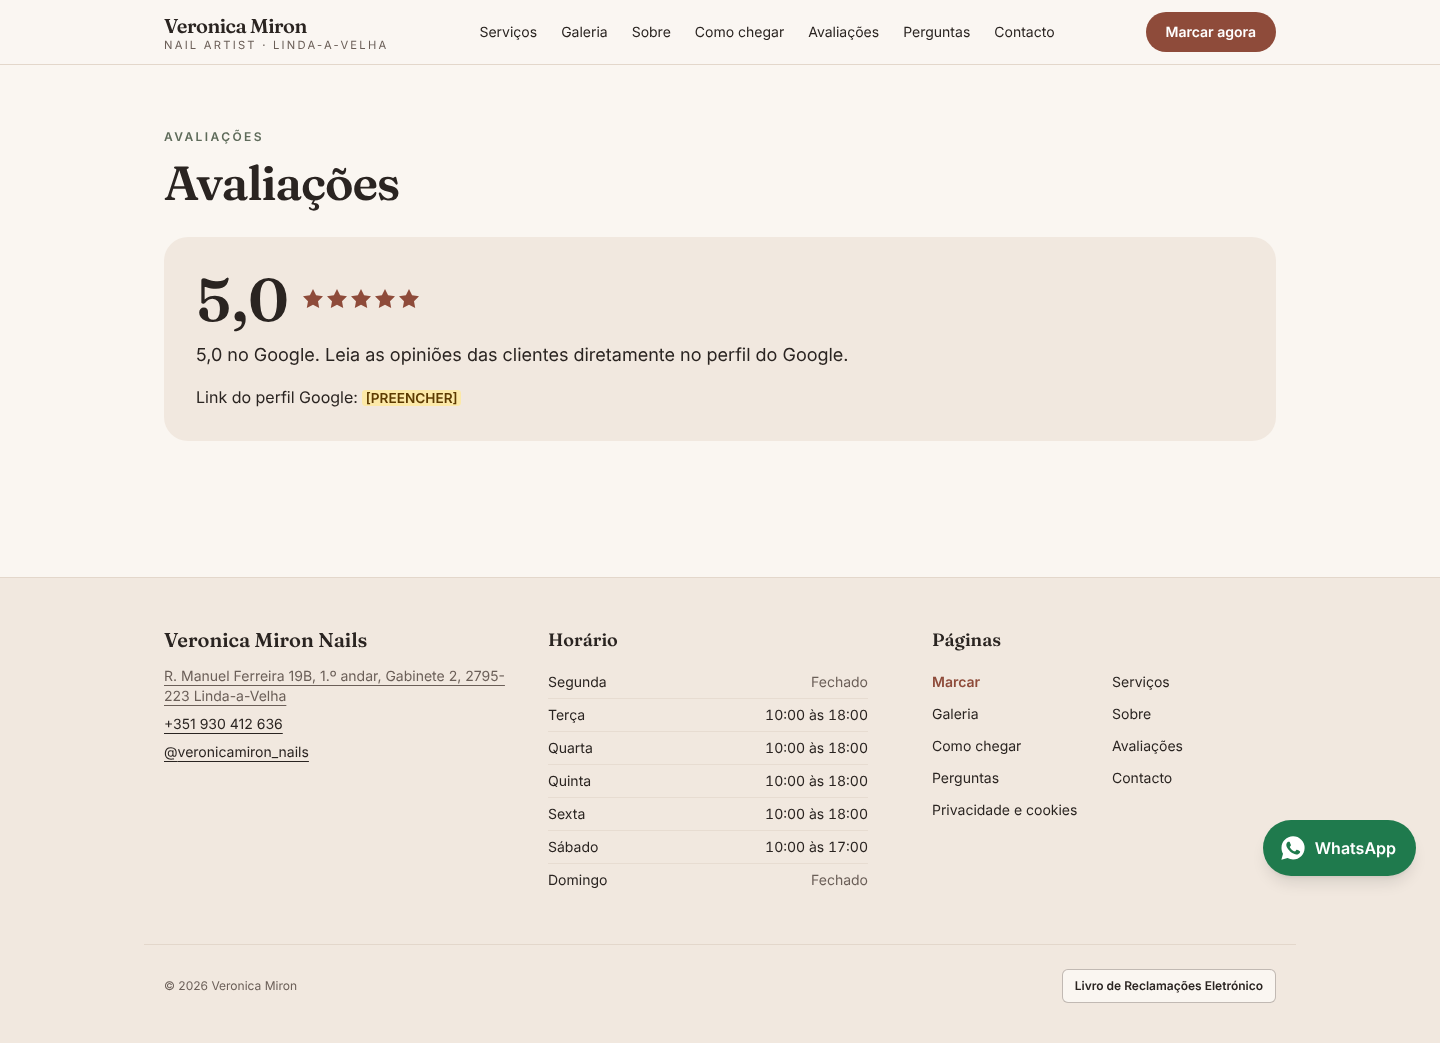
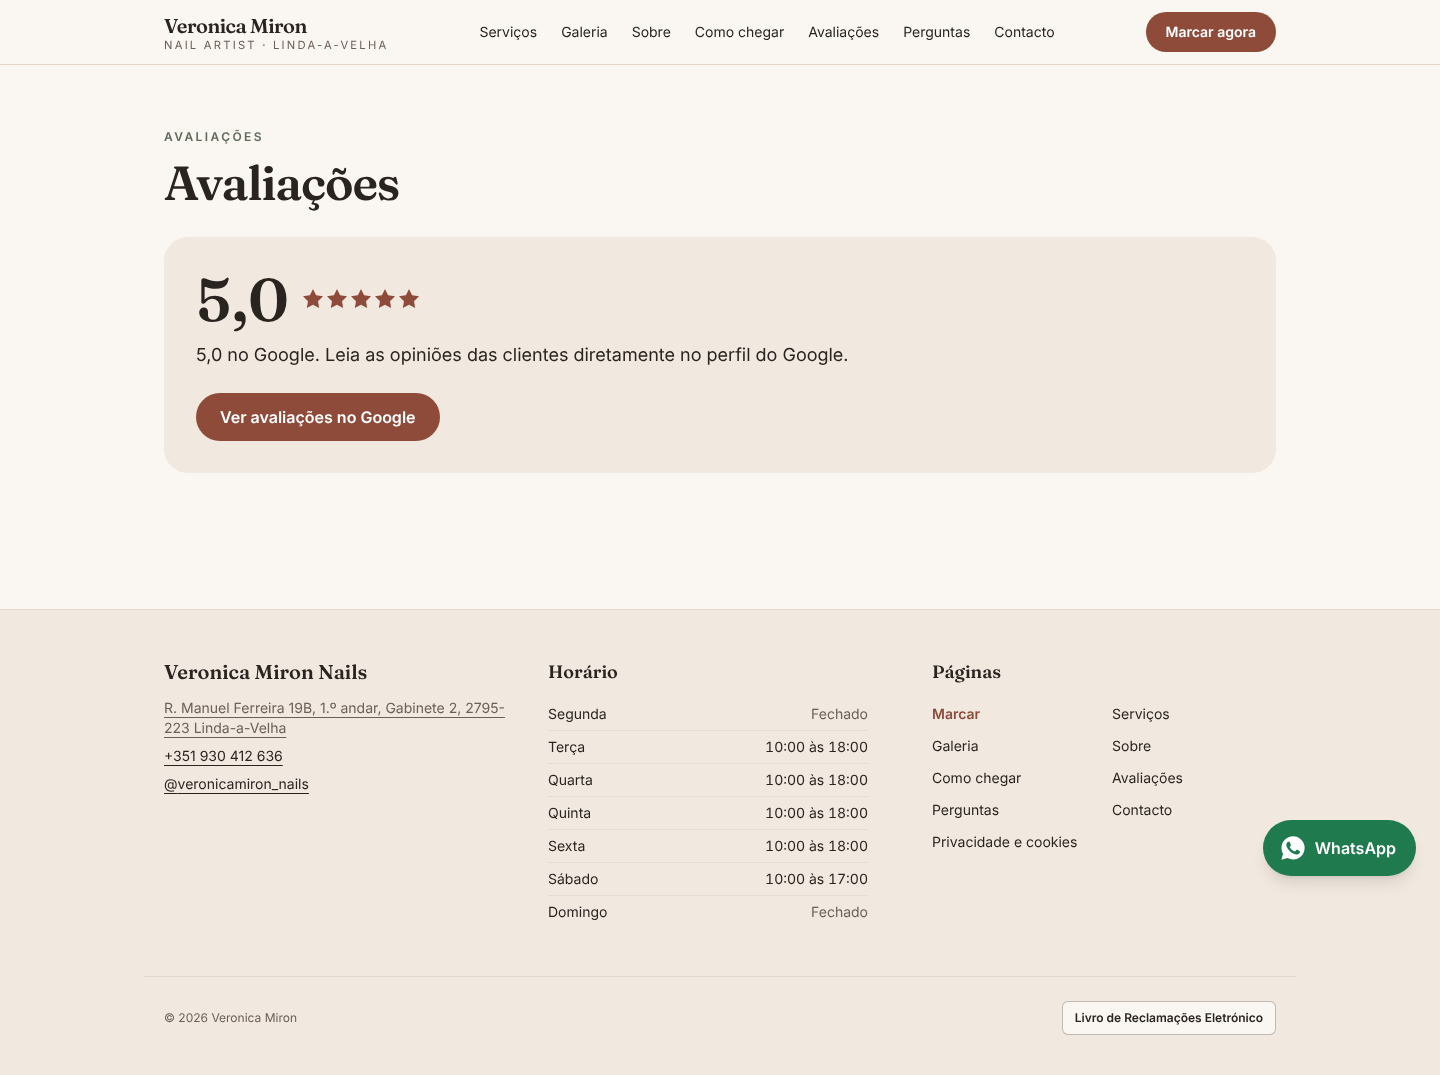
Link Google profile in reviews, hero badge and JSON-LD sameAs
Claude-Session: https://claude.ai/code/session_01JvvfVMmjBF5FaaNWbVzmCE

diff --git a/docs/CONTENT-NEEDED.md b/docs/CONTENT-NEEDED.md
@@ -2,33 +2,32 @@
 
 Generated by `npm run check:content` from `content/site.json` and the code. Every item below shows on the preview as a yellow [PREENCHER] mark.
 
-## In content/site.json (23)
+## In content/site.json (22)
 
 | # | JSON path | What is needed | Shows on |
 |---|---|---|---|
 | 1 | `business.email` | [PREENCHER] | /contacto, /privacidade |
-| 2 | `business.googleProfileUrl` | [PREENCHER] | /avaliacoes, Home rating badge |
-| 3 | `booking.policy` | [PREENCHER: política de atrasos e cancelamentos] | /marcar, /servicos |
-| 4 | `services[0].duration` | [PREENCHER] | Home, /servicos, /marcar (price and duration) |
-| 5 | `services[0].price` | [PREENCHER] | Home, /servicos, /marcar (price and duration) |
-| 6 | `services[1].duration` | [PREENCHER] | Home, /servicos, /marcar (price and duration) |
-| 7 | `services[1].price` | [PREENCHER] | Home, /servicos, /marcar (price and duration) |
-| 8 | `services[2].duration` | [PREENCHER] | Home, /servicos, /marcar (price and duration) |
-| 9 | `services[2].price` | [PREENCHER] | Home, /servicos, /marcar (price and duration) |
-| 10 | `services[3].duration` | [PREENCHER] | Home, /servicos, /marcar (price and duration) |
-| 11 | `services[3].price` | [PREENCHER] | Home, /servicos, /marcar (price and duration) |
-| 12 | `hygiene.steps` | [PREENCHER: processo de limpeza e esterilização do material] | Home, /sobre |
-| 13 | `about.body[1]` | [PREENCHER: história pessoal, formação e certificações] | /sobre |
-| 14 | `findUs.entrance` | [PREENCHER: como identificar a entrada do prédio (cor da porta, loja ao lado, campainha)] | /como-chegar |
-| 15 | `findUs.parking` | [PREENCHER: onde estacionar] | /como-chegar |
-| 16 | `findUs.transport` | [PREENCHER: autocarros ou comboio mais próximos] | /como-chegar |
-| 17 | `findUs.accessibility` | [PREENCHER: existe elevador?] | /como-chegar |
-| 18 | `faq[1].a` | Depende do serviço. Veja a duração de cada um na lista de serviços. [PREENCHER: confirmar durações] | /faq, Home (first 4) |
-| 19 | `faq[2].a` | Todos os preços estão na página de serviços. [PREENCHER: confirmar preços] | /faq, Home (first 4) |
-| 20 | `faq[6].a` | [PREENCHER: política de atrasos e cancelamentos] | /faq |
-| 21 | `faq[7].a` | [PREENCHER: dinheiro, MB Way, multibanco] | /faq |
-| 22 | `legal.nif` | [PREENCHER] | /privacidade |
-| 23 | `legal.privacyUpdated` | [PREENCHER: data de publicação] | /privacidade |
+| 2 | `booking.policy` | [PREENCHER: política de atrasos e cancelamentos] | /marcar, /servicos |
+| 3 | `services[0].duration` | [PREENCHER] | Home, /servicos, /marcar (price and duration) |
+| 4 | `services[0].price` | [PREENCHER] | Home, /servicos, /marcar (price and duration) |
+| 5 | `services[1].duration` | [PREENCHER] | Home, /servicos, /marcar (price and duration) |
+| 6 | `services[1].price` | [PREENCHER] | Home, /servicos, /marcar (price and duration) |
+| 7 | `services[2].duration` | [PREENCHER] | Home, /servicos, /marcar (price and duration) |
+| 8 | `services[2].price` | [PREENCHER] | Home, /servicos, /marcar (price and duration) |
+| 9 | `services[3].duration` | [PREENCHER] | Home, /servicos, /marcar (price and duration) |
+| 10 | `services[3].price` | [PREENCHER] | Home, /servicos, /marcar (price and duration) |
+| 11 | `hygiene.steps` | [PREENCHER: processo de limpeza e esterilização do material] | Home, /sobre |
+| 12 | `about.body[1]` | [PREENCHER: história pessoal, formação e certificações] | /sobre |
+| 13 | `findUs.entrance` | [PREENCHER: como identificar a entrada do prédio (cor da porta, loja ao lado, campainha)] | /como-chegar |
+| 14 | `findUs.parking` | [PREENCHER: onde estacionar] | /como-chegar |
+| 15 | `findUs.transport` | [PREENCHER: autocarros ou comboio mais próximos] | /como-chegar |
+| 16 | `findUs.accessibility` | [PREENCHER: existe elevador?] | /como-chegar |
+| 17 | `faq[1].a` | Depende do serviço. Veja a duração de cada um na lista de serviços. [PREENCHER: confirmar durações] | /faq, Home (first 4) |
+| 18 | `faq[2].a` | Todos os preços estão na página de serviços. [PREENCHER: confirmar preços] | /faq, Home (first 4) |
+| 19 | `faq[6].a` | [PREENCHER: política de atrasos e cancelamentos] | /faq |
+| 20 | `faq[7].a` | [PREENCHER: dinheiro, MB Way, multibanco] | /faq |
+| 21 | `legal.nif` | [PREENCHER] | /privacidade |
+| 22 | `legal.privacyUpdated` | [PREENCHER: data de publicação] | /privacidade |
 
 ## In code (3)
 

diff --git a/docs/GATES.md b/docs/GATES.md
@@ -10,7 +10,7 @@ Evidence collected on 2026-11-05 against a local production build (`next build &
 | G4 | Lighthouse 12.8.2 mobile, Home | all 4 >= 90 | PASS: Performance 98, Accessibility 100, Best Practices 100, SEO 100 (final run; earlier runs 96 to 97) (full JSON: `docs/lighthouse-home-mobile.json`) |
 | G5 | JSON-LD validation | no errors | PASS: structured-data-testing-tool "NailSalon 100% (1 passed, 0 failed), 0 warnings"; JSON-LD typed with `schema-dts` (`WithContext<NailSalon>`, `FAQPage`, `BreadcrumbList`) and `tsc --noEmit` exit 0. Online validators (validator.schema.org, Google Rich Results) are blocked from this session: rerun on the preview URL |
 | G6 | `grep -rnP '[\x{2013}\x{2014}]' content components app lib docs scripts` | 0 hits | PASS: 0 hits; `npm run lint:dashes`: "Scanned 46 files, 0 em/en dash hits." |
-| G7 | `docs/CONTENT-NEEDED.md` | every [PREENCHER] with location | PASS: 23 in site.json + 3 in code, with JSON path or file:line and the page where it shows. Generated by `npm run check:content` |
+| G7 | `docs/CONTENT-NEEDED.md` | every [PREENCHER] with location | PASS: 22 in site.json + 3 in code, with JSON path or file:line and the page where it shows. Generated by `npm run check:content` |
 | G8 | Submit adapter B form with `BOOKING_WEBHOOK_URL` pointed at a local counting listener | 0 hits | PASS: listener hits 0; browser requests on submit: only `POST /marcar/formulario` (same origin server action); response "Pré-visualização: o pedido foi validado mas não foi enviado."; consent box unticked by default: true. `LIVE_SEND_ENABLED = false` is a code constant |
 | G9 | `docs/screenshots/` | 390 and 1440 of every page | PASS: 12 pages x 2 widths = 24 PNG + `g8-form-submitted-390.png` |
 

diff --git a/docs/TASKS.md b/docs/TASKS.md
@@ -19,6 +19,7 @@ Status: TODO | DOING | DONE | BLOCKED
 | 13 | CONTENT-NEEDED.md | DONE | generated by script |
 | 14 | Gates G1 to G9 with evidence (GATES.md) | DONE | G3 preview URL pending Vercel link |
 | 15 | Final report | DONE | |
-| 16 | Vercel preview deployment | BLOCKED | No Vercel access from this session; needs project link and a preview/* branch |
+| 16 | Vercel preview deployment | DOING | Ivan linked Vercel; code pushed to preview/site-v1 |
 | 17 | Real photos into placeholders | BLOCKED | Waiting on client |
 | 18 | EN/RU toggle | TODO | Only after PT content is complete |
+| 19 | Google profile link | DONE | share.google short link used as given (could not resolve to canonical Maps URL from this session) |
